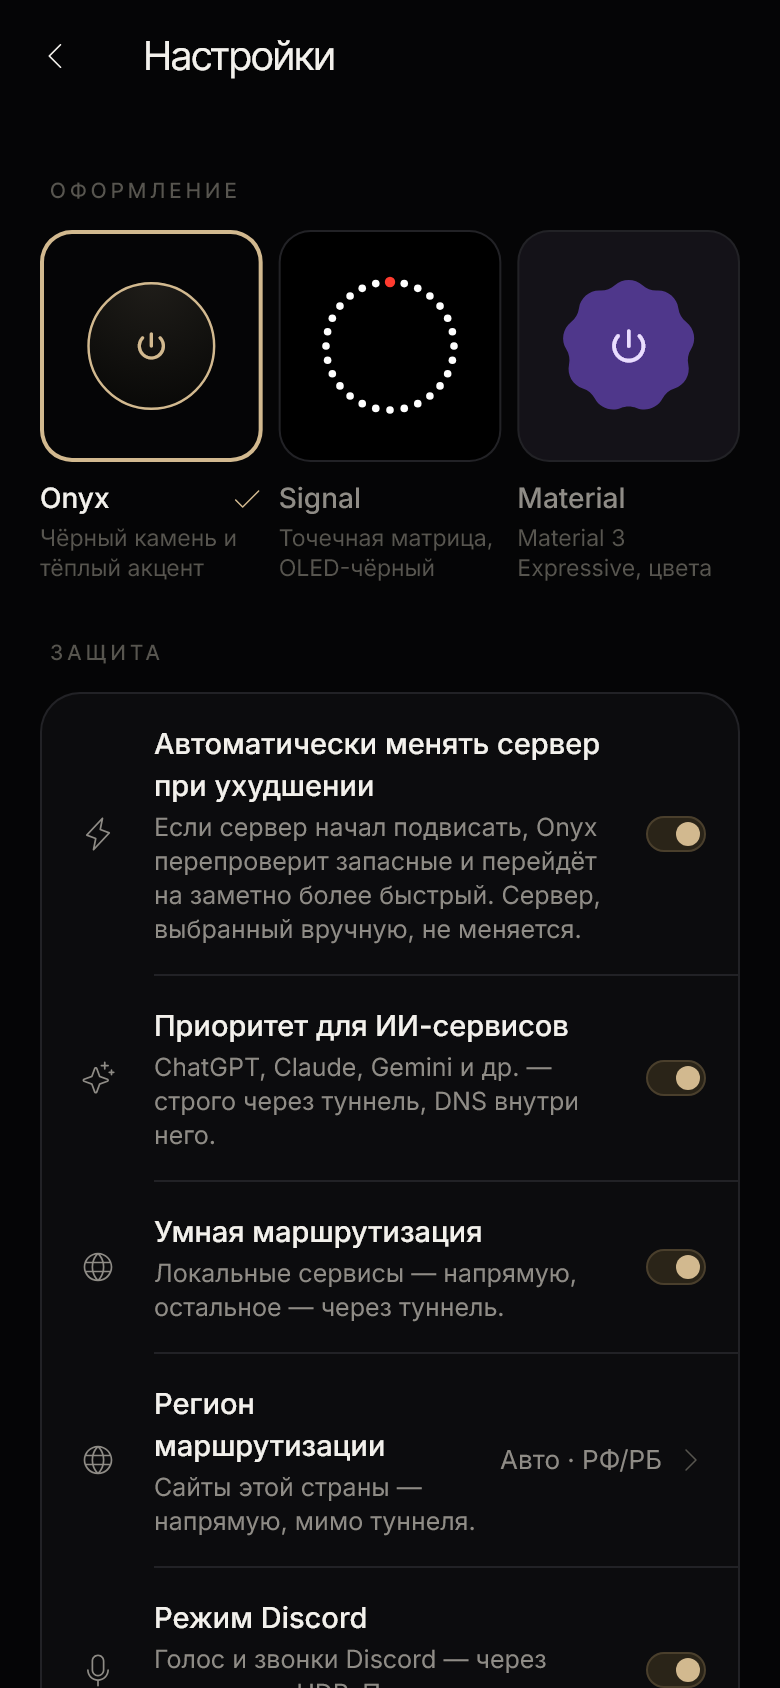
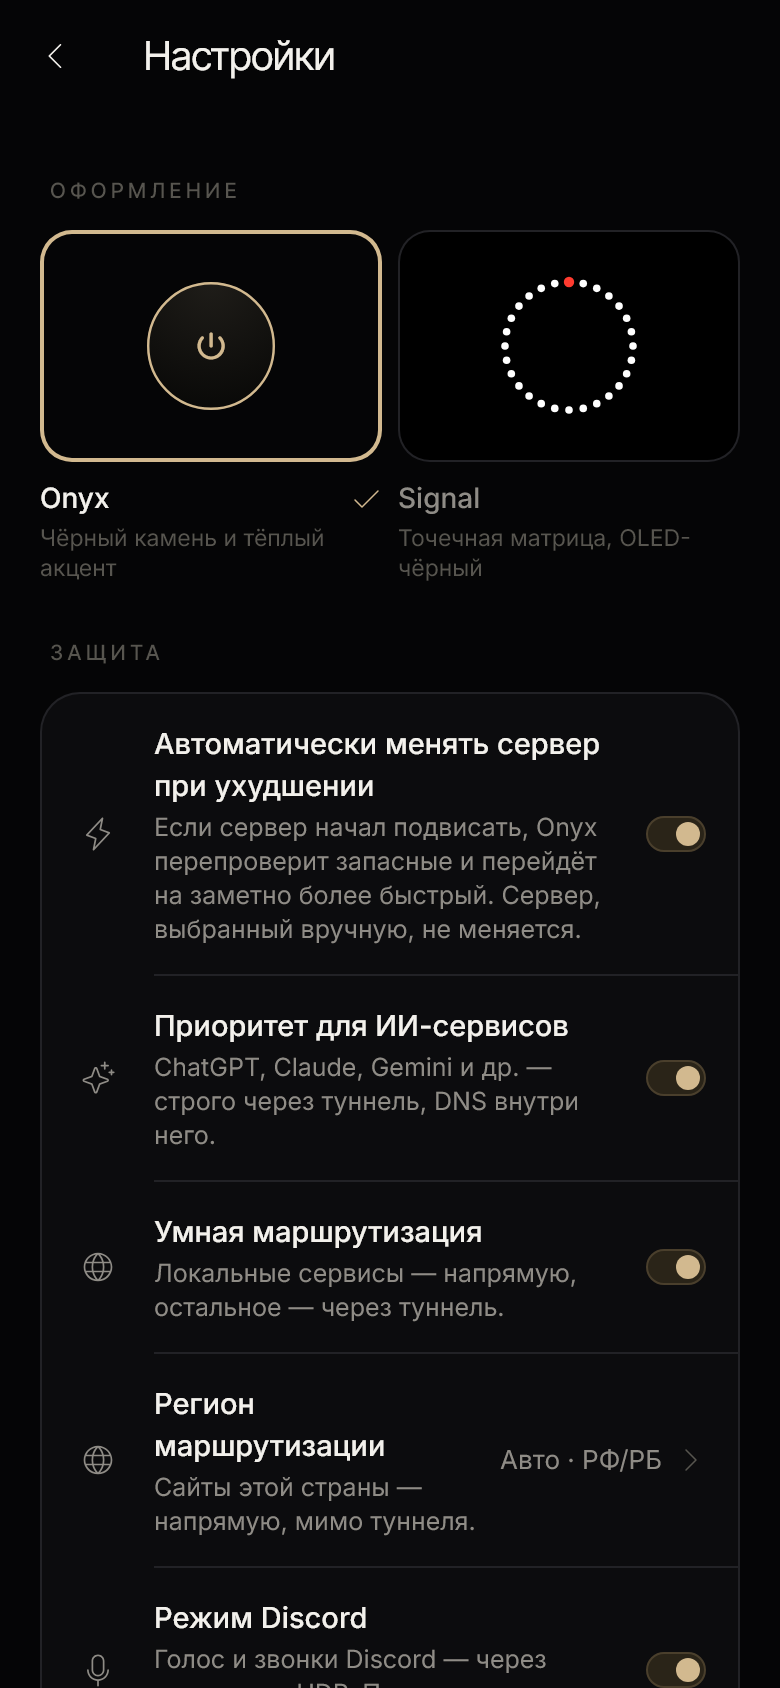
feat(ui): Material 3 скрыта из выбора темы до одобрения (к релизу 0.3.0, #104)
Пользователь не принял макеты M3 (m3, m3c) и решил: «M3 в коде — только
после одобрения»; доработку по канону должна была сделать отдельная
сессия (docs/redesign/M3-BRIEF.md), но ветка feat/redesign-m3 стоит на
6826910 без коммитов, а код темы не менялся с 07.11. В выпуск идёт без
неё.
- AppThemeKind.released / selectable: в «Оформлении» только Onyx и Signal.
  Вернуть Material — одна строка (released).
- byName(): сохранённая «material» из тестовых сборок → Onyx.
- Код темы Material и AppThemeKind.material не тронуты (архитектуру тем не
  переименовываем).
- Тесты: theme_test — нет в выборе, сохранённая → Onyx; golden настроек с
  двумя темами. Попутно: в golden тема фиксирована (FakeThemeKind) —
  раньше ThemeKindNotifier подхватывал пустые настройки, и в Настройках
  темы Signal была отмечена Onyx.

diff --git a/test/screens_golden_test.dart b/test/screens_golden_test.dart
@@ -67,6 +67,14 @@ class FakeVpn extends StateNotifier<VpnState> implements VpnController {
   dynamic noSuchMethod(Invocation i) => Future<void>.value();
 }
 
+/// Тема снимка без чтения настроек: настоящий ThemeKindNotifier подхватывал
+/// пустые настройки (Onyx), и в Настройках темы Signal была отмечена Onyx.
+class FakeThemeKind extends StateNotifier<AppThemeKind> implements ThemeKindNotifier {
+  FakeThemeKind(super.state);
+  @override
+  dynamic noSuchMethod(Invocation i) => Future<void>.value();
+}
+
 /// Автозапуск (#58) без реестра: тесты идут на Windows-хосте.
 class FakeAutostart extends StateNotifier<bool?> implements AutostartNotifier {
   FakeAutostart(super.state);
@@ -205,7 +213,7 @@ Widget app(AppThemeKind kind, VpnState vpn, Widget home, {SubscriptionState? s, 
         autostartProvider.overrideWith((ref) => FakeAutostart(true)),
         activityProvider.overrideWith((ref) => ActivityLog(activity)),
         speedProvider.overrideWith((ref) => SpeedHistory(speedSamples)),
-        themeKindProvider.overrideWith((ref) => ThemeKindNotifier(kind)),
+        themeKindProvider.overrideWith((ref) => FakeThemeKind(kind)),
         vpnControllerProvider.overrideWith((ref) => FakeVpn(vpn)),
         subscriptionProvider.overrideWith((ref) => FakeSub(s ?? sub)),
         updateControllerProvider.overrideWith(FakeUpdate.new),

diff --git a/lib/core/theme/theme_kind.dart b/lib/core/theme/theme_kind.dart
@@ -16,8 +16,19 @@ enum AppThemeKind {
   final String label;
   final String description;
 
+  /// Тема одобрена и есть в «Оформлении». Material 3 пока НЕТ: пользователь
+  /// не принял её макеты (m3, m3c) — «M3 в коде только после одобрения»;
+  /// код темы остаётся для доработки по канону (docs/redesign/M3-BRIEF.md).
+  /// Вернуть — одна строка здесь.
+  bool get released => this != AppThemeKind.material;
+
+  /// Темы для выбора в «Оформлении».
+  static List<AppThemeKind> get selectable => [for (final k in values) if (k.released) k];
+
+  /// Сохранённая тема. Неизвестная или не выпущенная (Material, выбранный в
+  /// тестовых сборках) — Onyx.
   static AppThemeKind byName(String? name) => AppThemeKind.values.firstWhere(
-        (k) => k.name == name,
+        (k) => k.name == name && k.released,
         orElse: () => AppThemeKind.onyx,
       );
 }

diff --git a/test/theme_test.dart b/test/theme_test.dart
@@ -32,4 +32,17 @@ void main() {
     expect(prefs.getString(ThemeKindNotifier.key), 'signal');
     expect(AppThemeKind.byName('nope'), AppThemeKind.onyx);
   });
+
+  test('Material 3 не выпущена: её нет в выборе, сохранённая — Onyx', () async {
+    expect(AppThemeKind.selectable, [AppThemeKind.onyx, AppThemeKind.signal]);
+    expect(AppThemeKind.byName('signal'), AppThemeKind.signal);
+    // Выбрана в тестовой сборке — после обновления Onyx, а не тема без выбора.
+    expect(AppThemeKind.byName('material'), AppThemeKind.onyx);
+    SharedPreferences.setMockInitialValues({ThemeKindNotifier.key: 'material'});
+    final n = ThemeKindNotifier();
+    await Future<void>.delayed(Duration.zero);
+    await Future<void>.delayed(Duration.zero);
+    expect(n.state, AppThemeKind.onyx);
+    n.dispose();
+  });
 }

diff --git a/lib/presentation/screens/settings_screen.dart b/lib/presentation/screens/settings_screen.dart
@@ -214,7 +214,7 @@ class _ThemePicker extends StatelessWidget {
     return LayoutBuilder(builder: (context, box) {
       final narrow = box.maxWidth < 420;
       final cards = [
-        for (final k in AppThemeKind.values)
+        for (final k in AppThemeKind.selectable)
           _ThemeCard(kind: k, selected: k == value, onTap: () => onChanged(k)),
       ];
       return Row(
